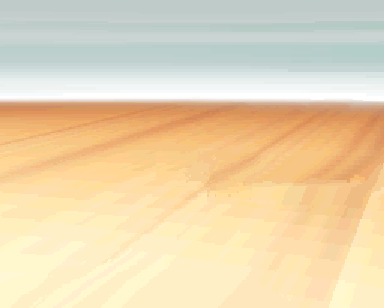
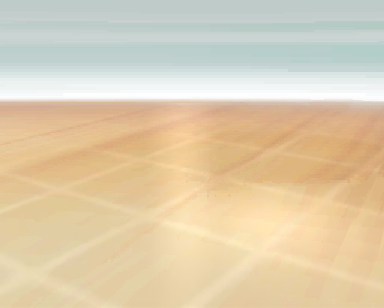
BattleBG tematizados adicionados

diff --git a/Data/Scripts/016_UI/001_Non-interactive UI/007_UI_Credits.rb b/Data/Scripts/016_UI/001_Non-interactive UI/007_UI_Credits.rb
@@ -140,6 +140,10 @@ Gen 8 Pokemon Cries          - Zeak6464
 PBS Credits:
 Golisopod User, Zerokid, TheToxic, HM100, KyureJL, ErwanBeurier
 
+ORAS/XY themed battle backgrounds for EBDX
+PhoenixOfLight92 for ripping the Gen 6 battlebacks
+LackDeJurane for the combined battlebacks
+
 Script Credits:
 EBS Bitmap Wrapper - Luka S.J.
 Gen 8 Scripts      - Golisopod User, Maruno, Vendily, TheToxic, HM100, Aioross, WolfPP, MFilice, lolface, KyureJL, DarrylBD99, Turn20Negate, TheKandinavian, ErwanBeurier
